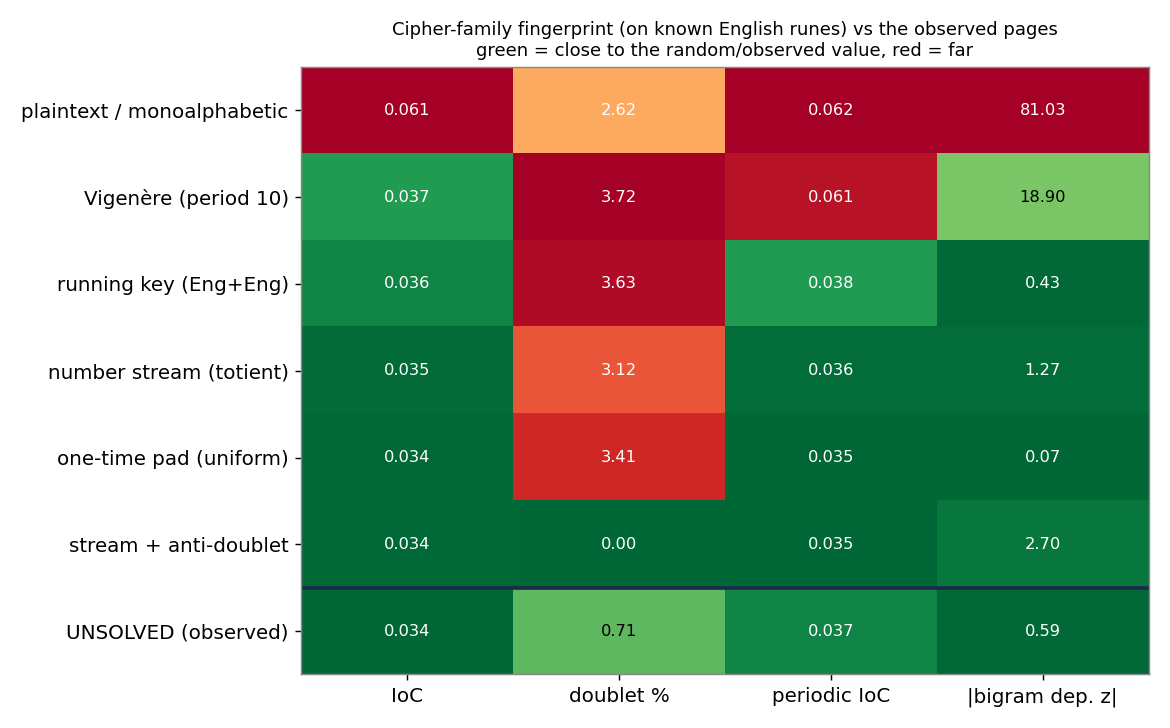
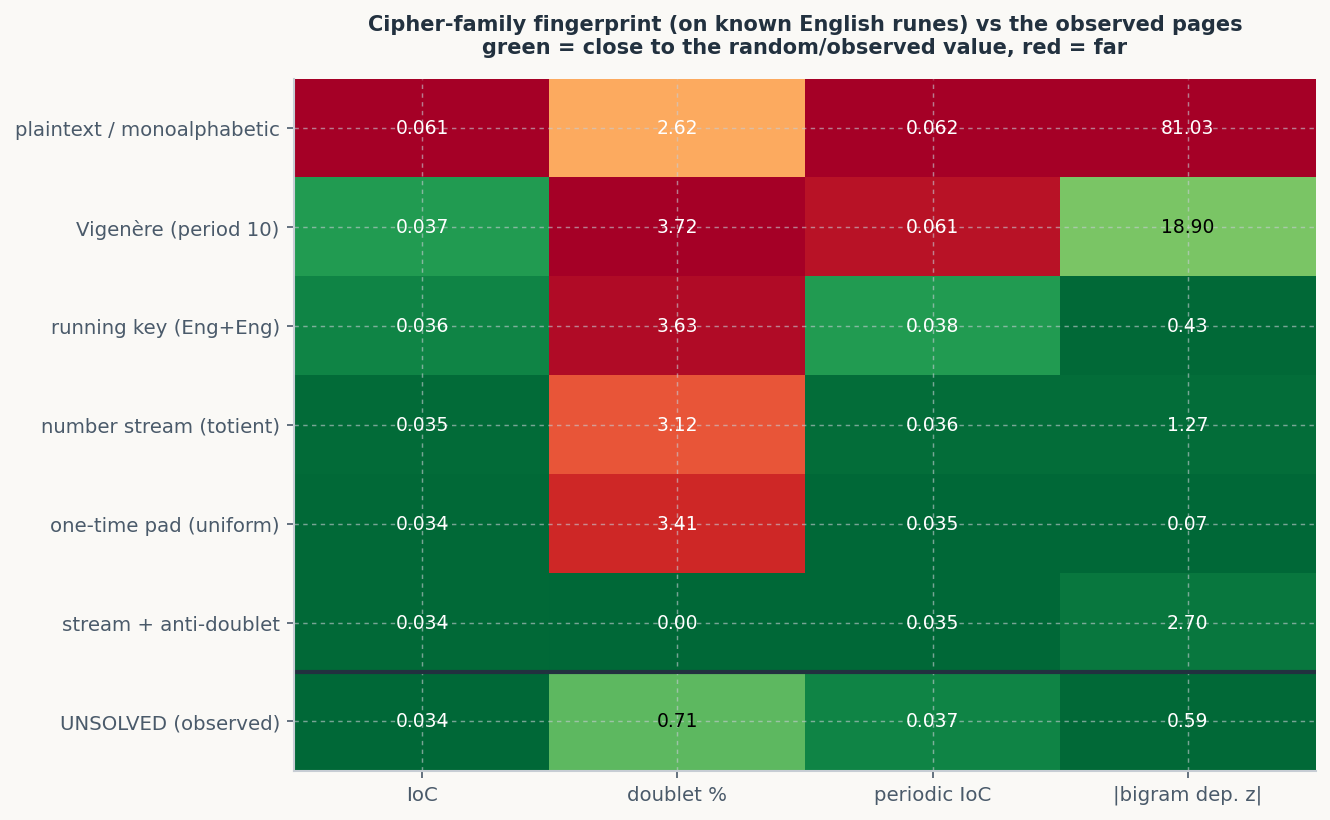
Restyle all analysis figures with a cohesive theme
Add analysis/_theme.py (shared palette, typography, grid, DPI) and apply
it in charts.py and charts_probes.py so all seven figures share one look:
warm canvas, earth/sea palette, left-aligned bold titles with muted
subtitles, lighter gridlines, only left/bottom spines. Fix the difficulty
chart's reference-line labels that overlapped the top bars (now in a clear
band above the plot) and regenerate every PNG.

diff --git a/AZdecrypt/Source/cicada/analysis/charts.py b/AZdecrypt/Source/cicada/analysis/charts.py
@@ -3,6 +3,9 @@ import glob, os, collections
 import matplotlib
 matplotlib.use("Agg")
 import matplotlib.pyplot as plt
+import _theme
+from _theme import INK, BLUE, TEAL, DEEP, SAND, ORANGE, RED, SLATE, GRID
+_theme.apply()
 
 RUNES = "ᚠᚢᚦᚩᚱᚳᚷᚹᚻᚾᛁᛄᛇᛈᛉᛋᛏᛒᛖᛗᛚᛝᛟᛞᚪᚫᚣᛡᛠ"
 LAT = ["F","U","TH","O","R","C","G","W","H","N","I","J","EO","P","X","S","T","B",
@@ -12,10 +15,6 @@ SEP = set("•⁘⁚⁖⁜\n")
 base = "/home/Ocool/Cicada/azdecrypt/AZdecrypt/Source/cicada/data/pages"
 out  = "/home/Ocool/Cicada/azdecrypt/AZdecrypt/Source/cicada/assets"
 os.makedirs(out, exist_ok=True)
-
-INK="#1b2a4a"; BLUE="#3b6ea5"; GREEN="#4a9b5e"; AMBER="#d99a2b"; RED="#c0493b"
-plt.rcParams.update({"font.size":11,"axes.edgecolor":"#888","axes.grid":True,
-                     "grid.alpha":0.25,"figure.dpi":130})
 
 # ---- gather solved corpus ----
 seq=[]; words=[]
@@ -31,23 +30,28 @@ N=len(seq); cnt=collections.Counter(seq)
 # ---- 1. letter/rune frequency ----
 items=cnt.most_common()
 labels=[LAT[i] for i,_ in items]; pct=[100*c/N for _,c in items]
-fig,ax=plt.subplots(figsize=(11,4.5))
-ax.bar(range(len(labels)),pct,color=BLUE,edgecolor=INK,linewidth=.6)
+fig,ax=plt.subplots(figsize=(11,4.6))
+ax.bar(range(len(labels)),pct,color=TEAL,edgecolor=INK,linewidth=.5,zorder=3)
 ax.set_xticks(range(len(labels))); ax.set_xticklabels(labels)
 ax.set_ylabel("frequency (%)"); ax.set_xlabel("Gematria Primus rune (Latin reading)")
-ax.set_title(f"Liber Primus solved corpus: rune frequency  (N={N} runes, 9 pages)")
+ax.grid(axis="x"); ax.set_axisbelow(True)
+_theme.titled(ax,"Solved corpus: rune frequency",
+              f"{N} runes across 9 pages — E dominates, matching English")
 ax.margins(x=0.01)
-fig.tight_layout(); fig.savefig(out+"/freq_letters.png"); plt.close(fig)
+fig.savefig(out+"/freq_letters.png"); plt.close(fig)
 
 # ---- 2. top words ----
 wc=collections.Counter(words).most_common(18)
 ws=[w for w,_ in wc][::-1]; wv=[c for _,c in wc][::-1]
-fig,ax=plt.subplots(figsize=(8,5.2))
-ax.barh(range(len(ws)),wv,color=GREEN,edgecolor=INK,linewidth=.6)
+fig,ax=plt.subplots(figsize=(8,5.4))
+ax.barh(range(len(ws)),wv,color=DEEP,edgecolor=INK,linewidth=.5,zorder=3)
 ax.set_yticks(range(len(ws))); ax.set_yticklabels(ws)
-ax.set_xlabel("count"); ax.set_title("Solved corpus: most common words")
-for i,v in enumerate(wv): ax.text(v+0.3,i,str(v),va="center",fontsize=9)
-fig.tight_layout(); fig.savefig(out+"/freq_words.png"); plt.close(fig)
+ax.set_xlabel("count"); ax.grid(axis="y")
+_theme.titled(ax,"Solved corpus: most common words",
+              "the English function-word skeleton (THE, TO, YOU, IS, WE …)")
+for i,v in enumerate(wv): ax.text(v+0.3,i,str(v),va="center",fontsize=8.5,color=SLATE)
+ax.margins(y=0.01)
+fig.savefig(out+"/freq_words.png"); plt.close(fig)
 
 # ---- 3. difficulty by IoC ----
 SOLVED={"0_warning","0_welcome","0_wisdom","0_koan_1","0_loss_of_divinity",
@@ -61,25 +65,32 @@ for fn in sorted(glob.glob(base+"/*.txt")):
     c=collections.Counter(s); n=len(s)
     ic=sum(v*(v-1) for v in c.values())/(n*(n-1))
     rows.append((ic,name,name in SOLVED))
-rows.sort()  # hardest (low IoC) first -> we plot ascending so easiest on right
+rows.sort()
 ics=[r[0] for r in rows]; names=[r[1] for r in rows]; solved=[r[2] for r in rows]
 def color(ic):
-    return GREEN if ic>0.055 else AMBER if ic>0.045 else "#cf7d2b" if ic>0.038 else RED
+    return TEAL if ic>0.055 else SAND if ic>0.045 else ORANGE if ic>0.038 else RED
 cols=[color(x) for x in ics]
-fig,ax=plt.subplots(figsize=(11,5.5))
-bars=ax.barh(range(len(names)),ics,color=cols,edgecolor=INK,linewidth=.6)
+fig,ax=plt.subplots(figsize=(11,5.8))
+ax.barh(range(len(names)),ics,color=cols,edgecolor=INK,linewidth=.5,zorder=3)
 ax.set_yticks(range(len(names)))
-ax.set_yticklabels([f"{n}{'  *' if sv else ''}" for n,sv in zip(names,solved)])
-ax.axvline(1/29,color="#444",ls="--",lw=1); ax.text(1/29,len(names)-0.5,"  random (1/29)",color="#444",fontsize=8,va="top")
-ax.axvline(0.0667,color="#444",ls=":",lw=1); ax.text(0.0667,len(names)-0.5,"  English-26",color="#444",fontsize=8,va="top")
-ax.set_xlabel("Index of Coincidence  (higher = more structure = easier to attack)")
-ax.set_title("Liber Primus pages ranked by predicted difficulty   (* = solved)")
+ax.set_yticklabels([f"{n}{'  ★' if sv else ''}" for n,sv in zip(names,solved)])
+ax.grid(axis="y"); ax.set_axisbelow(True)
+# reference lines, labelled in a clear band above the bars (no overlap)
+top=len(names)
+ax.set_ylim(-0.7, top+0.9)
+for x,lab in [(1/29,"random  1/29"),(0.0667,"English (26-letter)")]:
+    ax.axvline(x,color=SLATE,ls=(0,(4,3)),lw=1,zorder=2)
+    ax.text(x,top+0.15,lab,ha="center",va="center",fontsize=8.5,color=SLATE,
+            bbox=dict(boxstyle="round,pad=0.25",fc=_theme.CANVAS,ec=GRID,lw=.6))
+ax.set_xlabel("Index of Coincidence   (higher = more structure = easier to attack)")
+_theme.titled(ax,"Liber Primus pages ranked by predicted difficulty",
+              "★ = solved. Every statistically flat page (red) is unsolved")
 from matplotlib.patches import Patch
-ax.legend(handles=[Patch(color=GREEN,label="easy (monoalphabetic/plaintext)"),
-                   Patch(color=AMBER,label="medium"),
-                   Patch(color="#cf7d2b",label="hard (near-random)"),
-                   Patch(color=RED,label="hardest (flat / running-key)")],
-          loc="lower right",fontsize=8,framealpha=.9)
-fig.tight_layout(); fig.savefig(out+"/difficulty.png"); plt.close(fig)
+ax.legend(handles=[Patch(color=TEAL,label="easy — monoalphabetic / plaintext"),
+                   Patch(color=SAND,label="medium"),
+                   Patch(color=ORANGE,label="hard — near-random"),
+                   Patch(color=RED,label="hardest — flat / running-key")],
+          loc="lower right")
+fig.savefig(out+"/difficulty.png"); plt.close(fig)
 
-print("wrote:",os.listdir(out))
+print("wrote:", sorted(f for f in os.listdir(out) if f.endswith('.png')))

diff --git a/AZdecrypt/Source/cicada/analysis/_theme.py b/AZdecrypt/Source/cicada/analysis/_theme.py
@@ -1,0 +1,77 @@
+"""Shared visual theme for the Liber Primus analysis figures.
+
+A single cohesive look across charts.py and charts_probes.py: a warm off-white
+canvas, a restrained earth/sea palette, light dashed gridlines behind the data,
+only the left/bottom spines, bold titles with muted subtitles, and crisp DPI.
+Import and call apply() at the top of a chart script, then use the exported colours.
+"""
+import matplotlib
+matplotlib.use("Agg")
+import matplotlib.pyplot as plt
+
+# earth / sea palette (cohesive, print-friendly)
+INK    = "#22313f"   # near-black text / edges
+SLATE  = "#4a5a6a"   # secondary text
+TEAL   = "#2a9d8f"   # primary accent
+DEEP   = "#264653"   # dark accent
+SAND   = "#e9c46a"   # medium / warning
+ORANGE = "#f4a261"   # hard
+RED    = "#e76f51"   # hardest / alert
+GREEN  = "#2a9d8f"   # alias (easy / plaintext)
+BLUE   = "#3a7ca5"   # neutral bars
+AMBER  = "#e9c46a"
+GRID   = "#c7cdd4"
+CANVAS = "#faf9f6"   # warm off-white
+PANEL  = "#ffffff"
+
+SEQ_CMAP = "rocket" if "rocket" in plt.colormaps() else "magma"  # heatmaps
+DIV_CMAP = "RdYlGn_r"
+
+def apply():
+    plt.rcParams.update({
+        "figure.facecolor": CANVAS,
+        "figure.dpi": 150,
+        "savefig.dpi": 150,
+        "savefig.facecolor": CANVAS,
+        "savefig.bbox": "tight",
+        "axes.facecolor": PANEL,
+        "axes.edgecolor": GRID,
+        "axes.linewidth": 1.0,
+        "axes.grid": True,
+        "axes.grid.axis": "both",
+        "axes.axisbelow": True,
+        "grid.color": GRID,
+        "grid.linestyle": (0, (3, 3)),
+        "grid.alpha": 0.6,
+        "grid.linewidth": 0.7,
+        "axes.spines.top": False,
+        "axes.spines.right": False,
+        "axes.titlesize": 14,
+        "axes.titleweight": "bold",
+        "axes.titlecolor": INK,
+        "axes.titlepad": 12,
+        "axes.labelsize": 11,
+        "axes.labelcolor": SLATE,
+        "axes.labelweight": "medium",
+        "xtick.color": SLATE,
+        "ytick.color": SLATE,
+        "xtick.labelsize": 9.5,
+        "ytick.labelsize": 9.5,
+        "text.color": INK,
+        "font.family": "sans-serif",
+        "font.sans-serif": ["DejaVu Sans", "Arial", "Helvetica"],
+        "font.size": 11,
+        "legend.frameon": True,
+        "legend.framealpha": 0.92,
+        "legend.edgecolor": GRID,
+        "legend.fontsize": 8.5,
+    })
+
+def titled(ax, title, subtitle=None):
+    """Bold title with an optional muted subtitle line underneath, with a clear gap."""
+    ax.set_title("")  # suppress the default title slot
+    ax.text(0.0, 1.07, title, transform=ax.transAxes, fontsize=14,
+            fontweight="bold", color=INK, va="bottom", ha="left")
+    if subtitle:
+        ax.text(0.0, 1.015, subtitle, transform=ax.transAxes,
+                fontsize=9.5, color=SLATE, va="bottom", ha="left")

diff --git a/AZdecrypt/Source/cicada/analysis/charts_probes.py b/AZdecrypt/Source/cicada/analysis/charts_probes.py
@@ -26,8 +26,10 @@ os.makedirs(out, exist_ok=True)
 C = 29
 random.seed(3301)
 
-INK="#1b2a4a"; BLUE="#3b6ea5"; GREEN="#4a9b5e"; AMBER="#d99a2b"; RED="#c0493b"
-plt.rcParams.update({"font.size":11,"axes.edgecolor":"#888","figure.dpi":130})
+import _theme
+from _theme import INK, BLUE, GREEN, TEAL, DEEP, SAND, AMBER, ORANGE, RED, SLATE, GRID
+_theme.apply()
+SEQ_CMAP = _theme.SEQ_CMAP
 
 def load(name):
     return [idx[c] for c in open(os.path.join(base, name), encoding="utf-8").read() if c in idx]
@@ -89,7 +91,7 @@ panels=[(pl,"plaintext control — Loss of Divinity",np.percentile(pl[pl>0],98))
         (un,"unsolved corpus (pooled, 9 pages)",2*un[un>0].mean())]
 fig,axes=plt.subplots(1,2,figsize=(13,6.2))
 for ax,(m,title,vmax) in zip(axes,panels):
-    im=ax.imshow(m,cmap="magma",vmin=0,vmax=vmax,aspect="equal")
+    im=ax.imshow(m,cmap=SEQ_CMAP,vmin=0,vmax=vmax,aspect="equal")
     ax.set_xticks(range(C)); ax.set_xticklabels(LAT,fontsize=6,rotation=90)
     ax.set_yticks(range(C)); ax.set_yticklabels(LAT,fontsize=6)
     ax.set_title(title,fontsize=12); ax.set_xlabel("second rune"); ax.set_ylabel("first rune")
